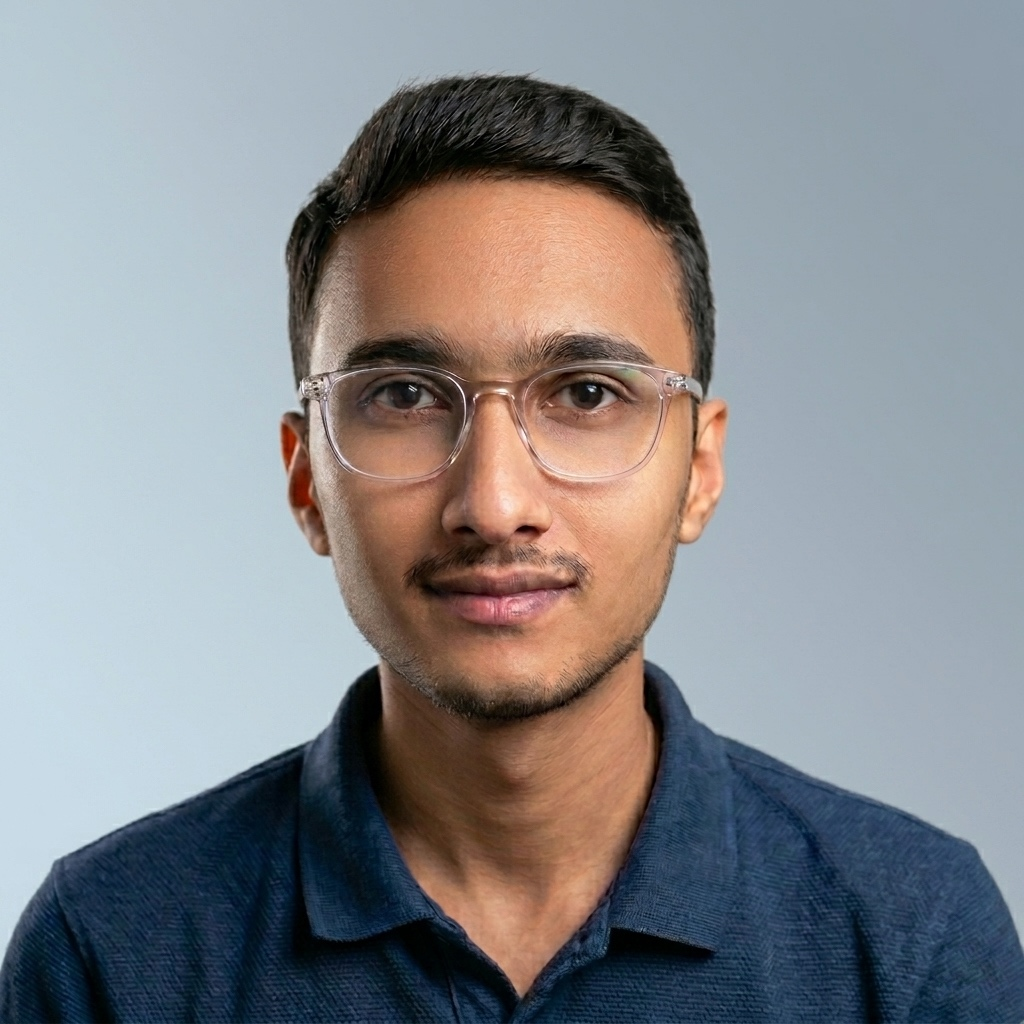
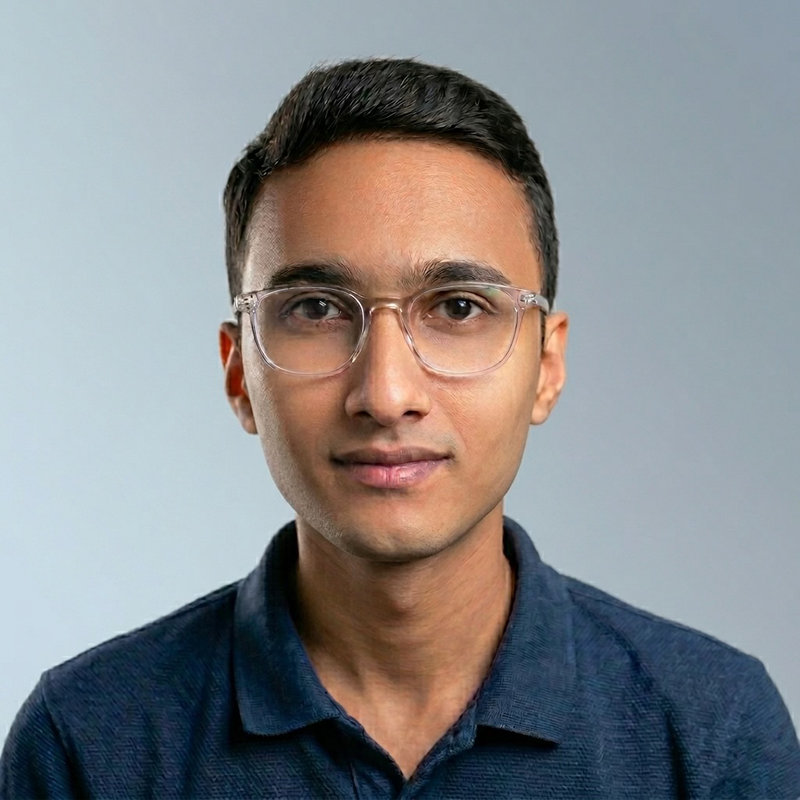
updated header text

diff --git a/index.html b/index.html
@@ -52,7 +52,9 @@
     </div>
   </div>
   <nav id="desktop-nav">
-    <div class="logo nav-links">Subroto Kumar</div>
+    <div class="logo nav-links">
+      &lt;Subroto /&gt;
+    </div>
     <div>
       <ul class="nav-links">
         <li><a href="#about">About</a></li>